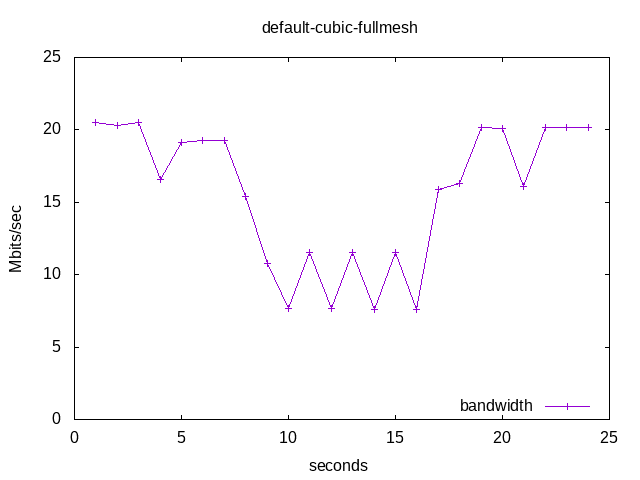
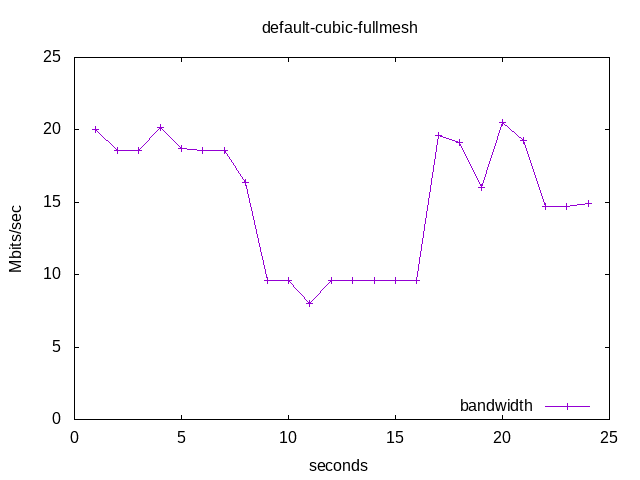
update test and redo plots

diff --git a/mptcp_test.py b/mptcp_test.py
@@ -15,6 +15,11 @@ Test Prerequisites
 - set congestion control algorithm
 - set path manager
 - set scheduler
+
+Notes
+Do not add delay on the client (sender) links.  Mininet does not use TSQ small
+queues (TSQ), thus does not emulate MPTCP correctly.  Source: Mininet/Netem
+Emulation Pitfalls by Alexander Frommgen.
 """
 
 import time
@@ -32,21 +37,23 @@ TEST_DURATION = 24  # seconds
 net = Mininet(cleanup=True)
 
 # setup host, switch and controller
+# h1 -> client, h2 -> server
 h1 = net.addHost('h1', ip='10.0.1.1')
 h2 = net.addHost('h2', ip='10.0.2.1')
 s3 = net.addSwitch('s3')
 c0 = net.addController('c0')
 
 # add links to host-1
-net.addLink(h1, s3, cls=TCLink, bw=10, delay='10ms',
+# NOTE: do not add delay for client (sender) links
+net.addLink(h1, s3, cls=TCLink, bw=10,
             max_queue_size=MAX_QUEUE_SIZE)
-net.addLink(h1, s3, cls=TCLink, bw=10, delay='10ms',
+net.addLink(h1, s3, cls=TCLink, bw=10,
             max_queue_size=MAX_QUEUE_SIZE)
 
 # add links to host-2
-net.addLink(h2, s3, cls=TCLink, bw=10, delay='10ms',
+net.addLink(h2, s3, cls=TCLink, bw=10, delay='20ms',
             max_queue_size=MAX_QUEUE_SIZE)
-net.addLink(h2, s3, cls=TCLink, bw=10, delay='10ms',
+net.addLink(h2, s3, cls=TCLink, bw=10, delay='20ms',
             max_queue_size=MAX_QUEUE_SIZE)
 
 h1.setIP('10.0.1.1', intf='h1-eth0')
